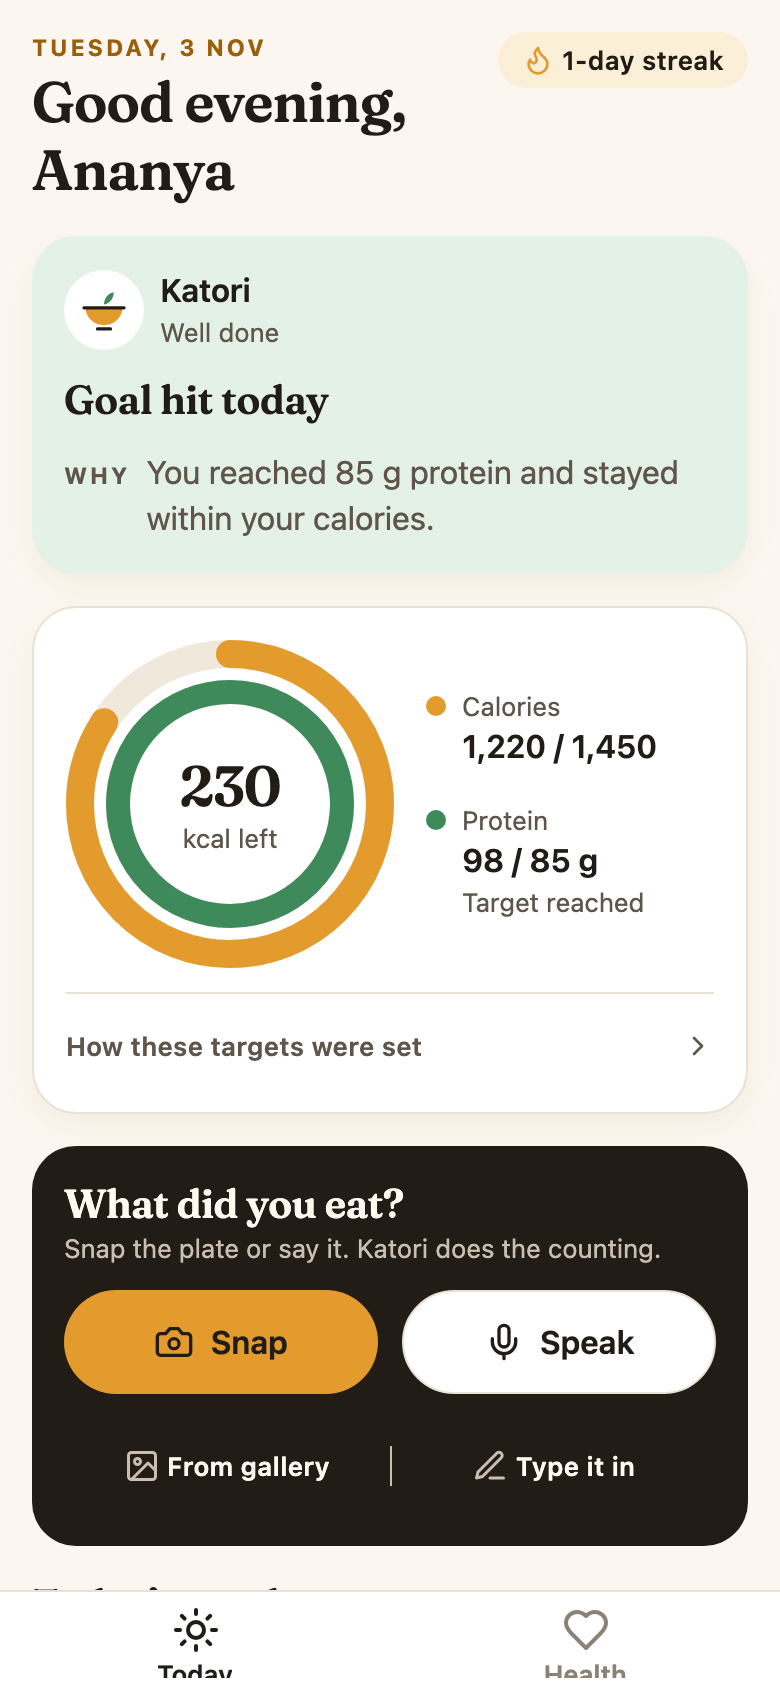
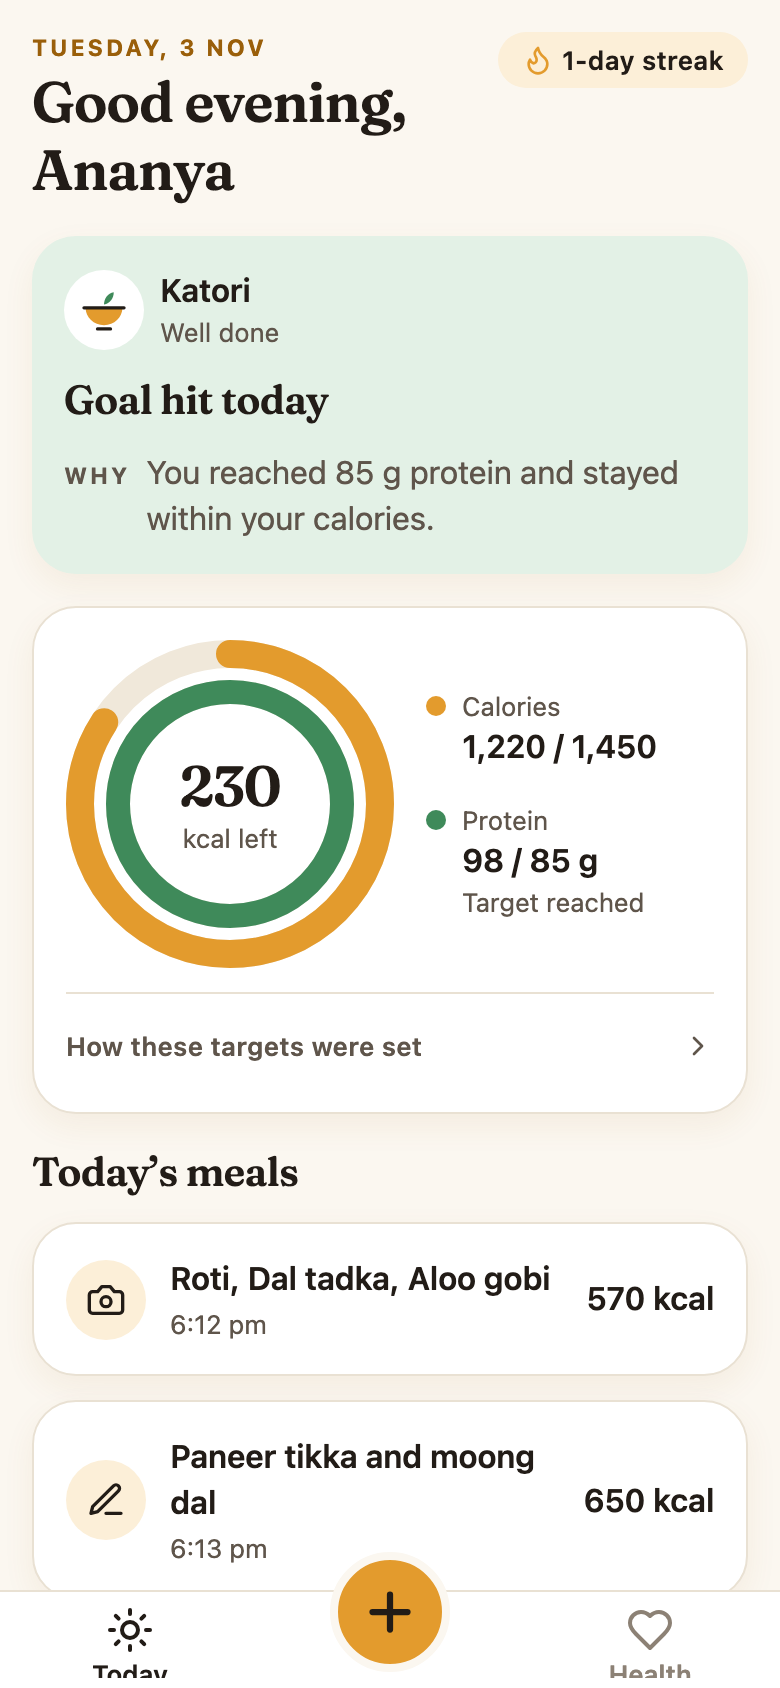
docs: describe the centre log tab and refresh screenshots

Changed region(s): [[0.0308, 0.6777, 0.9846, 0.9858], [0.6769, 0.955, 0.8923, 1.0], [0.1231, 0.955, 0.3077, 1.0]]

diff --git a/README.md b/README.md
@@ -8,6 +8,7 @@ the maths, explains why it matters for _your_ goal and lab results, and reaches 
 
 <p>
   <img src="docs/screenshots/today.png" width="220" alt="Today screen with rings and the assistant card" />
+  <img src="docs/screenshots/log.png" width="220" alt="Log a meal screen with a big Snap button" />
   <img src="docs/screenshots/meal-review.png" width="220" alt="Meal review sheet with editable food chips" />
   <img src="docs/screenshots/health.png" width="220" alt="Health tab with colour coded lab results" />
 </p>
@@ -26,12 +27,12 @@ clear _why_, and nudges at the right moment.
 
 ## The four flows
 
-|     | Flow                                    | What it does                                                                                                                                                                                                                                              |
-| --- | --------------------------------------- | --------------------------------------------------------------------------------------------------------------------------------------------------------------------------------------------------------------------------------------------------------- |
-| 1   | **Onboarding with a goal and a why**    | Five short cards (name, age and sex, height and weight with cm or ft/in, activity, goal) plus an optional blood report. Ends on **Your Plan**: calorie and protein targets, _how they were worked out_, and 2 or 3 focus areas, each with a one line why. |
-| 2   | **Log a meal by photo or voice** (hero) | **Snap** or **Speak** on Today. The AI returns food chips with portions in Indian units; the user removes, resizes (½× to 3×) or confirms doubtful items, then saves. Works offline.                                                                      |
-| 3   | **Today: the assistant comes to you**   | Rings showing what is left, an assistant card that changes through the day (always with a why), meal timeline, streak flame, weekly wins, confetti when the daily goal is hit, reminders at learned meal times.                                           |
-| 4   | **Health report reader**                | Upload a photo or PDF of a blood report. Markers are listed green, amber or red; each opens a sheet with where it sits in the healthy range, why it matters and one food action. Today's focus areas update automatically.                                |
+|     | Flow                                    | What it does                                                                                                                                                                                                                                                                                                                                          |
+| --- | --------------------------------------- | ----------------------------------------------------------------------------------------------------------------------------------------------------------------------------------------------------------------------------------------------------------------------------------------------------------------------------------------------------- |
+| 1   | **Onboarding with a goal and a why**    | Five short cards (name, age and sex, height and weight with cm or ft/in, activity, goal) plus an optional blood report. Ends on **Your Plan**: calorie and protein targets, _how they were worked out_, and 2 or 3 focus areas, each with a one line why.                                                                                             |
+| 2   | **Log a meal by photo or voice** (hero) | The raised **+** in the middle of the tab bar opens one screen: a big **Snap** button, **Speak** under it, gallery and typing as fallbacks. After saving, Today opens so the rings visibly move. The AI returns food chips with portions in Indian units; the user removes, resizes (½× to 3×) or confirms doubtful items, then saves. Works offline. |
+| 3   | **Today: the assistant comes to you**   | Rings showing what is left, an assistant card that changes through the day (always with a why), meal timeline, streak flame, weekly wins, confetti when the daily goal is hit, reminders at learned meal times.                                                                                                                                       |
+| 4   | **Health report reader**                | Upload a photo or PDF of a blood report. Markers are listed green, amber or red; each opens a sheet with where it sits in the healthy range, why it matters and one food action. Today's focus areas update automatically.                                                                                                                            |
 
 <p>
   <img src="docs/screenshots/welcome.png" width="200" alt="Welcome screen with the Katori bowl mark" />
@@ -90,8 +91,11 @@ kitchen:
   what is left in the middle.
 - **An assistant with a face:** the bowl mark speaks on the assistant card, whose colour follows
   the day (turmeric morning, leaf afternoon, dusk evening) so a new check in is visible at a glance.
-- **One dock for logging:** Snap (turmeric) and Speak sit together on an ink panel with "From
-  gallery" and "Type it in" underneath, so all four ways to log are one glance away.
+- **Logging is the centre tab:** a raised turmeric **+** in the middle of the tab bar, under the
+  thumb on every main screen. It opens one screen with a big Snap circle (a photo gives the best
+  estimate for the least effort), Speak right under it, and "From gallery" and "Type it in" as
+  fallbacks. Meal reminders open this screen directly. Today stays a read of your day; on day
+  one its empty meal list has a "Log your first meal" button.
 - **Onboarding that feels like a conversation:** a welcome screen with three promises, then one
   serif question per step with a segmented progress bar, icons for goals and signal bars for
   activity level. The plan arrives as an ink card with the two numbers, the maths, then numbered

diff --git a/docs/self-evaluation.md b/docs/self-evaluation.md
@@ -8,7 +8,7 @@ Checked against the user testing checklist in the build guide.
 | 2   | Does onboarding end with a clear goal, a clear what and a clear why?      | Yes                              | Your Plan shows the goal, two targets, how they were calculated, and 2 or 3 focus areas each with a why                                                                                  |
 | 3   | Is the assistant acting first, or is the user doing the work?             | Mostly the assistant             | Proactive card per time of day, reminders at learned meal times, automatic focus areas from lab results, offline sync without user action                                                |
 | 4   | Are there feel good moments?                                              | Yes                              | Streak flame, confetti and a goal card once per goal day, weekly wins framed positively, kind copy on over days                                                                          |
-| 5   | Is every screen simple, with one main action and little text?             | Yes                              | Onboarding: one question per card; Today: Snap or Speak; review: Save; Health: upload                                                                                                    |
+| 5   | Is every screen simple, with one main action and little text?             | Yes                              | Onboarding: one question per card; Log tab: one big Snap button with Speak under it; review: Save; Health: upload                                                                        |
 | 6   | Would I open it again tomorrow? For 90 days?                              | Tomorrow yes; 90 days needs more | Streaks, reminders and wins pull people back. Longer term needs trends over weeks and goal updates (listed in next steps)                                                                |
 | 7   | Does every visible button work? Are loading, empty and error states real? | Yes                              | Covered by the browser e2e suites; every async screen has skeletons, empty and error states                                                                                              |
 | 8   | Does it work offline, after a restart, and with permissions denied?       | Yes                              | Offline logging and sync, restart resumes onboarding or opens Today, denied camera or microphone offers Settings, gallery or hand entry                                                  |

diff --git a/docs/loom-script.md b/docs/loom-script.md
@@ -27,7 +27,7 @@ Record on a phone mirror or the web app at phone width. Start on a fresh install
 
 ## 0:55 to 1:45, flow 2: log a meal by photo or voice
 
-- Tap **Snap** on the dark logging dock, photograph a plate. Show the skeleton chips, then the review sheet.
+- Tap the turmeric **+** in the middle of the tab bar, then the big **Snap** circle, photograph a plate. Show the skeleton chips, then the review sheet.
 - Remove one chip, tap another and press **+** to make it bigger; the total updates.
 
 > "The AI reads the photo; totals are summed in code. Doubtful items are highlighted for a quick
